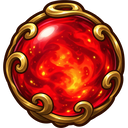
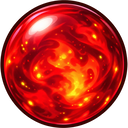
feat(nav): the orb loses its ring, wakes for longer, and counts what it calls for
The brass filigree made the silhouette hard to read at badge size; the orb is
now the sphere alone, a clean circle with a dark rim (regenerated with
ChatGPT from the last one, sheets/ui-nav4-orb.png). The waking runs longer —
two stirrings of five and seven stepped frames with stills between, over
6.4 s — and the red halo pulses very slowly (5.5 s each way).

The badge counts now. `buildCtaCount` and `researchCtaCount` count what the
lit checks only asked about (the Build check is shared, `canBuildNow`, so the
two cannot disagree — tests hold them together), and the tab carries the
number on the orb: nothing for one, "2" to "9", then "9+".

diff --git a/src/ui/styles/screens/nav.css b/src/ui/styles/screens/nav.css
@@ -95,11 +95,14 @@
 
 /* THE CALL TO ACTION is a small scrying orb on the tab's corner: the screen
    behind it has something the player can press right now. Three layers:
-     ::before  a red halo behind it, breathing slowly;
-     ::after   the orb (sheets/ui-nav3-orb.png) under a warm glint that
-               jumps between a few spots in STEPPED frames — a flicker, not
-               a glide — then rests, as if something inside is waking.
-   It pops in when it appears. */
+     ::before  a red halo behind it, pulsing very slowly;
+     ::after   the orb (sheets/ui-nav4-orb.png) under a warm glint that
+               jumps between spots in STEPPED frames — a flicker, not a
+               glide — in two stirrings of a few frames each, then rests:
+               something inside is waking.
+   More than one thing to do puts the count on the orb (navbar.ts sets
+   data-count: "2" … "9", then "9+"); one is the orb alone. It pops in when
+   it appears. */
 #navbar.nav .nav-tab.is-cta::before,
 #navbar.nav .nav-tab.is-cta::after {
   content: '';
@@ -114,7 +117,7 @@
   border-radius: 50%;
   background: radial-gradient(circle, rgba(255, 70, 40, 0.7) 0%, rgba(230, 40, 20, 0.4) 38%, rgba(200, 20, 10, 0.12) 55%, transparent 70%);
   transform: scale(2.4);
-  animation: nav-orb-halo 2.6s ease-in-out infinite alternate, nav-badge-in 240ms cubic-bezier(0.3, 1.6, 0.6, 1) both;
+  animation: nav-orb-halo 5.5s ease-in-out infinite alternate, nav-badge-in 240ms cubic-bezier(0.3, 1.6, 0.6, 1) both;
 }
 #navbar.nav .nav-tab.is-cta::after {
   /* The glint is a small warm spot kept inside the glass: its radius is a
@@ -124,26 +127,52 @@
     url('../../assets/badge-orb.png') center / contain no-repeat;
   background-blend-mode: screen, normal;
   filter: drop-shadow(0 calc(var(--rpx) * 3) 0 rgba(40, 22, 10, 0.4));
-  animation: nav-orb-wake 3.2s steps(1) infinite, nav-badge-in 240ms cubic-bezier(0.3, 1.6, 0.6, 1) both;
+  animation: nav-orb-wake 6.4s steps(1) infinite, nav-badge-in 240ms cubic-bezier(0.3, 1.6, 0.6, 1) both;
 }
+/* The count, set on the orb in the chrome's cream with a dark rim so it reads
+   on the red glass at badge size. */
+#navbar.nav .nav-tab.is-cta[data-count]::after {
+  content: attr(data-count);
+  display: grid;
+  place-items: center;
+  font-family: var(--font-body);
+  font-size: calc(var(--nav-badge) * 0.52);
+  font-weight: var(--weight-title);
+  line-height: 1;
+  color: #fff6e0;
+  text-shadow:
+    0 calc(var(--rpx) * 2) 0 #4a0d06, calc(var(--rpx) * 2) 0 0 #4a0d06,
+    calc(var(--rpx) * -2) 0 0 #4a0d06, 0 calc(var(--rpx) * -2) 0 #4a0d06;
+}
+/* "9+" is two glyphs: a notch smaller so it stays inside the glass. */
+#navbar.nav .nav-tab.is-cta[data-count='9+']::after { font-size: calc(var(--nav-badge) * 0.42); }
 @keyframes nav-badge-in {
   from { scale: 0; }
   to { scale: 1; }
 }
 @keyframes nav-orb-halo {
-  from { opacity: 0.6; transform: scale(2.2); }
-  to { opacity: 1; transform: scale(2.7); }
+  from { opacity: 0.55; transform: scale(2.2); }
+  to { opacity: 1; transform: scale(2.75); }
 }
-/* A few frames of stirring, then a long still: brightness nudged by a few
-   percent and the glint moving between spots inside the glass. */
+/* Two stirrings — five frames, then seven — each settling back, with long
+   stills between: the glint moving between spots inside the glass and the
+   brightness nudged by a few percent. */
 @keyframes nav-orb-wake {
-  0%   { background-position: 50% 52%, center; filter: brightness(1) drop-shadow(0 calc(var(--rpx) * 3) 0 rgba(40, 22, 10, 0.4)); }
-  8%   { background-position: 42% 56%, center; filter: brightness(1.08) drop-shadow(0 calc(var(--rpx) * 3) 0 rgba(40, 22, 10, 0.4)); }
-  14%  { background-position: 57% 47%, center; filter: brightness(1.04) drop-shadow(0 calc(var(--rpx) * 3) 0 rgba(40, 22, 10, 0.4)); }
-  20%  { background-position: 48% 60%, center; filter: brightness(1.12) drop-shadow(0 calc(var(--rpx) * 3) 0 rgba(40, 22, 10, 0.4)); }
-  26%  { background-position: 54% 54%, center; filter: brightness(1.05) drop-shadow(0 calc(var(--rpx) * 3) 0 rgba(40, 22, 10, 0.4)); }
-  32%  { background-position: 50% 52%, center; filter: brightness(1) drop-shadow(0 calc(var(--rpx) * 3) 0 rgba(40, 22, 10, 0.4)); }
-  100% { background-position: 50% 52%, center; filter: brightness(1) drop-shadow(0 calc(var(--rpx) * 3) 0 rgba(40, 22, 10, 0.4)); }
+  0%    { background-position: 50% 52%, center; filter: brightness(1) drop-shadow(0 calc(var(--rpx) * 3) 0 rgba(40, 22, 10, 0.4)); }
+  5%    { background-position: 43% 56%, center; filter: brightness(1.06) drop-shadow(0 calc(var(--rpx) * 3) 0 rgba(40, 22, 10, 0.4)); }
+  9%    { background-position: 56% 47%, center; filter: brightness(1.03) drop-shadow(0 calc(var(--rpx) * 3) 0 rgba(40, 22, 10, 0.4)); }
+  13%   { background-position: 47% 60%, center; filter: brightness(1.1) drop-shadow(0 calc(var(--rpx) * 3) 0 rgba(40, 22, 10, 0.4)); }
+  17%   { background-position: 53% 55%, center; filter: brightness(1.04) drop-shadow(0 calc(var(--rpx) * 3) 0 rgba(40, 22, 10, 0.4)); }
+  21%   { background-position: 50% 52%, center; filter: brightness(1) drop-shadow(0 calc(var(--rpx) * 3) 0 rgba(40, 22, 10, 0.4)); }
+  40%   { background-position: 50% 52%, center; filter: brightness(1) drop-shadow(0 calc(var(--rpx) * 3) 0 rgba(40, 22, 10, 0.4)); }
+  44%   { background-position: 58% 58%, center; filter: brightness(1.05) drop-shadow(0 calc(var(--rpx) * 3) 0 rgba(40, 22, 10, 0.4)); }
+  48%   { background-position: 45% 48%, center; filter: brightness(1.09) drop-shadow(0 calc(var(--rpx) * 3) 0 rgba(40, 22, 10, 0.4)); }
+  52%   { background-position: 54% 44%, center; filter: brightness(1.13) drop-shadow(0 calc(var(--rpx) * 3) 0 rgba(40, 22, 10, 0.4)); }
+  56%   { background-position: 42% 54%, center; filter: brightness(1.07) drop-shadow(0 calc(var(--rpx) * 3) 0 rgba(40, 22, 10, 0.4)); }
+  60%   { background-position: 51% 62%, center; filter: brightness(1.11) drop-shadow(0 calc(var(--rpx) * 3) 0 rgba(40, 22, 10, 0.4)); }
+  64%   { background-position: 55% 50%, center; filter: brightness(1.04) drop-shadow(0 calc(var(--rpx) * 3) 0 rgba(40, 22, 10, 0.4)); }
+  68%   { background-position: 50% 52%, center; filter: brightness(1) drop-shadow(0 calc(var(--rpx) * 3) 0 rgba(40, 22, 10, 0.4)); }
+  100%  { background-position: 50% 52%, center; filter: brightness(1) drop-shadow(0 calc(var(--rpx) * 3) 0 rgba(40, 22, 10, 0.4)); }
 }
 @media (prefers-reduced-motion: reduce) {
   #navbar.nav .nav-tab.is-cta::before,

diff --git a/src/game.ts b/src/game.ts
@@ -91,7 +91,7 @@ import {
 } from './sim/population';
 import { activeQuest, claimQuest, isQuestComplete, questValue } from './sim/quests';
 import {
-  anyResearchActionable, buySlot, eraShortfall, isTechComplete, startTech, techUnlocks,
+  anyResearchActionable, researchActionableCount, buySlot, eraShortfall, isTechComplete, startTech, techUnlocks,
   finishTechWithGems, techRushCost,
   buyTechInstantly, instantTechGems,
 } from './sim/research';
@@ -3595,15 +3595,20 @@ export class Game {
 
   /** Per-second Build CTA: some uncapped district is affordable AND has a legal cell. */
   buildCtaLit(): boolean {
-    return BUILDABLE_DISTRICTS.some((id) => {
-      const def = DISTRICTS[id];
-      const capped =
-        districtCount(this.state, id) >= maxDistrictCount(this.state, def);
-      if (capped) return false;
-      const cells = validPlacementCells(this.state, this.map, id);
-      if (cells.length === 0) return false;
-      return canAfford(this.state.city.wallet, nextBuildCost(this.state, id));
-    });
+    return BUILDABLE_DISTRICTS.some((id) => this.canBuildNow(id));
+  }
+
+  /** How many buildings could be placed right now — the Build tab's count. */
+  buildCtaCount(): number {
+    return BUILDABLE_DISTRICTS.filter((id) => this.canBuildNow(id)).length;
+  }
+
+  /** Under its cap, somewhere legal to put it, and affordable this second. */
+  private canBuildNow(id: DistrictId): boolean {
+    const def = DISTRICTS[id];
+    if (districtCount(this.state, id) >= maxDistrictCount(this.state, def)) return false;
+    if (validPlacementCells(this.state, this.map, id).length === 0) return false;
+    return canAfford(this.state.city.wallet, nextBuildCost(this.state, id));
   }
 
   /** Per-second Research CTA: some technology can be started. The same shape
@@ -3614,6 +3619,11 @@ export class Game {
    *  purchase. Every node is a technology now, so it is one. */
   researchCtaLit(): boolean {
     return anyResearchActionable(this.state);
+  }
+
+  /** How many technologies can be started — the Research tab's count. */
+  researchCtaCount(): number {
+    return researchActionableCount(this.state);
   }
 
   /** Resource cells a worker building at `cell` (level 1) would capture. */

diff --git a/src/ui/navbar.ts b/src/ui/navbar.ts
@@ -71,10 +71,13 @@ export function mountNavbar(game: Game, root: HTMLElement): void {
       // something the player can press right now: a district that is both
       // affordable and placeable, or a tech/upgrade that can be started
       // this second.
-      const cta = def.name === 'build' ? game.buildCtaLit()
-        : def.name === 'research' ? game.researchCtaLit()
-          : false;
-      button.classList.toggle('is-cta', cta);
+      const count = def.name === 'build' ? game.buildCtaCount()
+        : def.name === 'research' ? game.researchCtaCount()
+          : 0;
+      button.classList.toggle('is-cta', count > 0);
+      // One is the orb alone; more carry the number, capped at "9+".
+      if (count > 1) button.dataset.count = count > 9 ? '9+' : String(count);
+      else delete button.dataset.count;
     }
   };
   game.onChange(refresh);

diff --git a/tests/research.test.ts b/tests/research.test.ts
@@ -553,6 +553,17 @@ describe('what the player can actually act on', () => {
     expect(game.researchCtaLit()).toBe(false);
     fund(game.state, TECHNOLOGIES.Forestry.cost);
     expect(game.researchCtaLit()).toBe(true);
+    expect(game.researchCtaCount()).toBeGreaterThanOrEqual(1);
+  });
+
+  it('counts every technology the player could start this second', () => {
+    const game = freshPresenter(freshGame());
+    fund(game.state, { Gold: 0 });
+    expect(game.researchCtaCount()).toBe(0);
+    fund(game.state, { Gold: 1e9, Knowledge: 1e9 });
+    const startable = TECH_ORDER.filter((id) => canStartTech(game.state, id)).length;
+    expect(game.researchCtaCount()).toBe(startable);
+    expect(startable).toBeGreaterThan(1);
   });
 });
 

diff --git a/tests/presenter.test.ts b/tests/presenter.test.ts
@@ -433,6 +433,17 @@ describe('the Build call-to-action', () => {
     fund(state, { Gold: 9999, Wood: 9999, Stone: 9999, Food: 9999 });
     expect(game.buildCtaLit()).toBe(true);
   });
+
+  // The tab's badge counts what the lit check only asks about: the two must
+  // never disagree, or the orb would show with no number behind it.
+  it('counts what it lights for', () => {
+    const state = freshGame();
+    const game = freshPresenter(state);
+    expect(game.buildCtaCount()).toBe(0);
+    fund(state, { Gold: 9999, Wood: 9999, Stone: 9999, Food: 9999 });
+    expect(game.buildCtaCount()).toBeGreaterThan(0);
+    expect(game.buildCtaCount() > 0).toBe(game.buildCtaLit());
+  });
 });
 
 describe('villager training', () => {

diff --git a/src/sim/research.ts b/src/sim/research.ts
@@ -182,6 +182,10 @@ export const canStartTech = (state: GameState, id: TechId): boolean =>
 export const anyResearchActionable = (state: GameState): boolean =>
   TECH_ORDER.some((id) => canStartTech(state, id));
 
+/** How many technologies can be started right now — the Research tab's count. */
+export const researchActionableCount = (state: GameState): number =>
+  TECH_ORDER.filter((id) => canStartTech(state, id)).length;
+
 // ------------------------------------------------------------- tree fog
 
 /**
